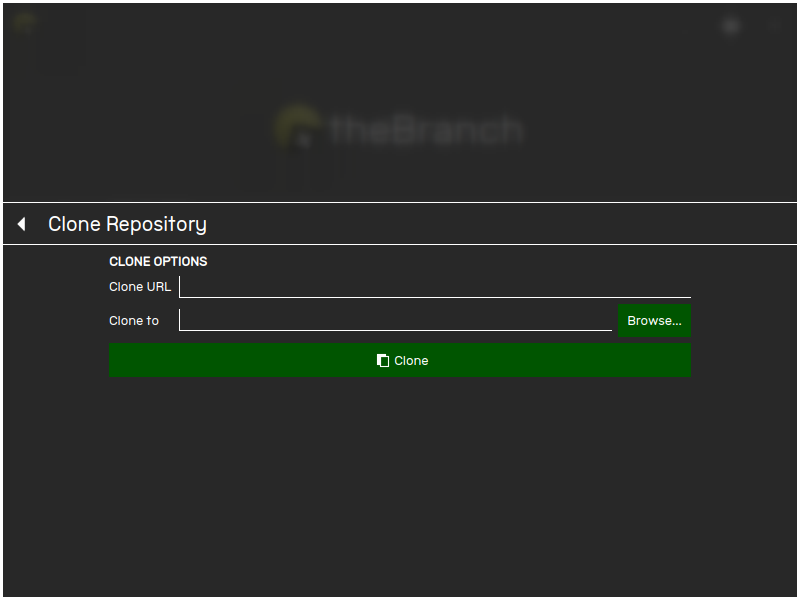
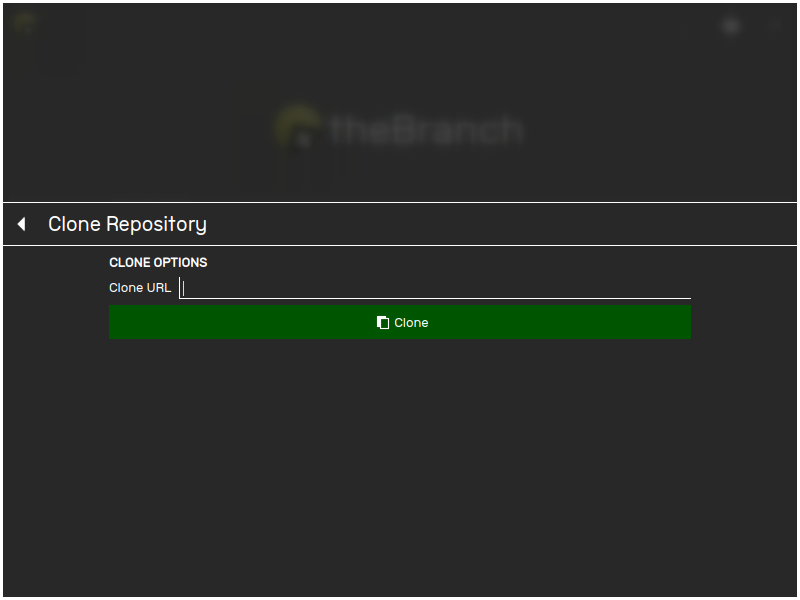
Update theBranch docs

Changed region(s): [[0.0312, 0.39, 0.9688, 0.63]]

diff --git a/docs/thebranch/repositories/opening/clone.md b/docs/thebranch/repositories/opening/clone.md
@@ -16,10 +16,16 @@ The **Clone Repository** dialog will appear.
 
 <Image className="inlineImage" img={require('./clone.png')} />
 
-The dialog will ask you for some information before you can clone a repository.
+Enter the clone URL and then click <Command icon="edit-copy">Clone</Command>. theBranch will contact the repository to retrieve information about it.
 
-- **Clone URL**<br />
-The URL of the repository. Usually you can obtain this from the repository home page.
+If authentication is required by the remote, you will be asked for the appropriate credentials to complete the clone operation.
+
+Once theBranch is satisfied that it can clone from the clone URL you specified, it will ask you for more information before the clone operation starts.
+
+<Image className="inlineImage" img={require('./clone2.png')} />
+
+- **Checkout Branch**<br />
+The branch to checkout once the clone is complete.
 - **Clone to**<br />
 The folder on your local computer to create a clone of the repository at. This must be an empty folder.
 
